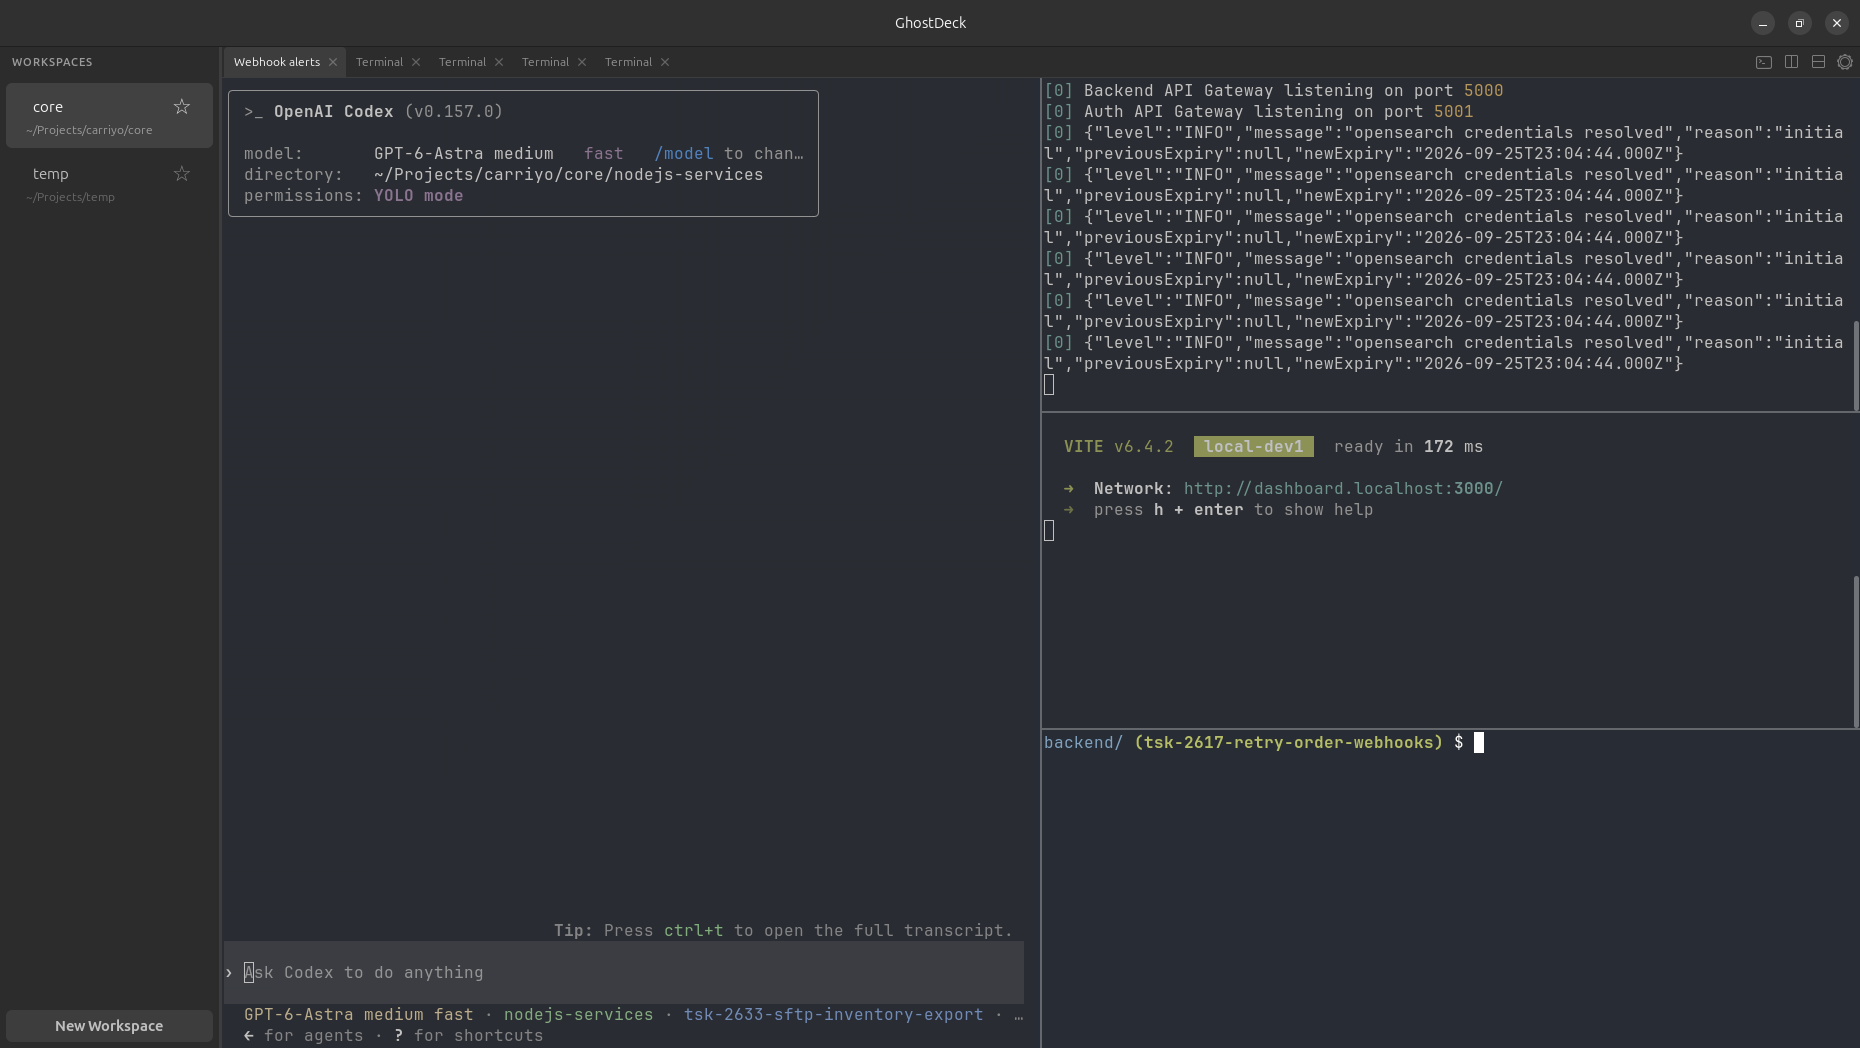
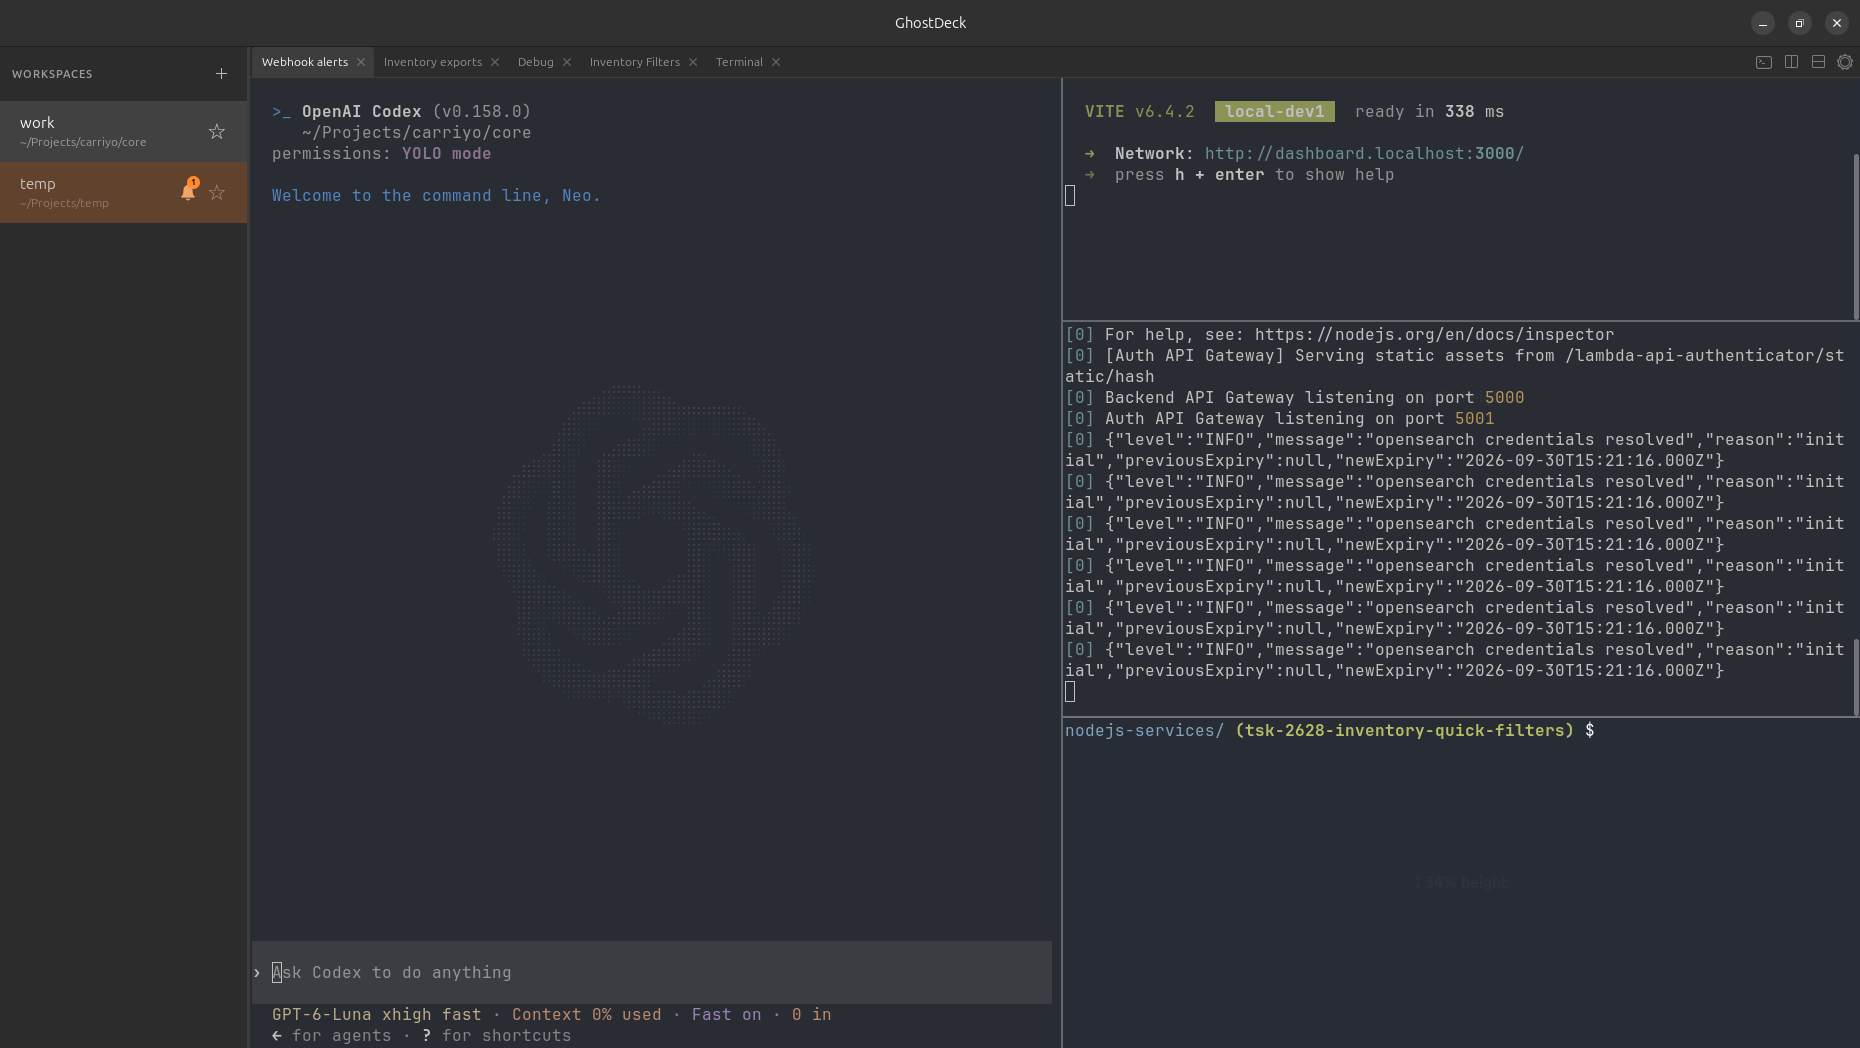
1. badge css 2. screenshot update

diff --git a/rust/ghostdeck-host-linux/src/window.rs b/rust/ghostdeck-host-linux/src/window.rs
@@ -1158,8 +1158,8 @@ row:selected .ghostdeck-ws-star-btn {
     padding: 0;
     font-size: 9px;
     font-weight: 700;
-    margin-top: -6px;
-    margin-right: -8px;
+    margin-top: -3px;
+    margin-right: -3px;
 }
 .ghostdeck-sidebar-row-unread,
 .ghostdeck-sidebar-row-close-warning {
